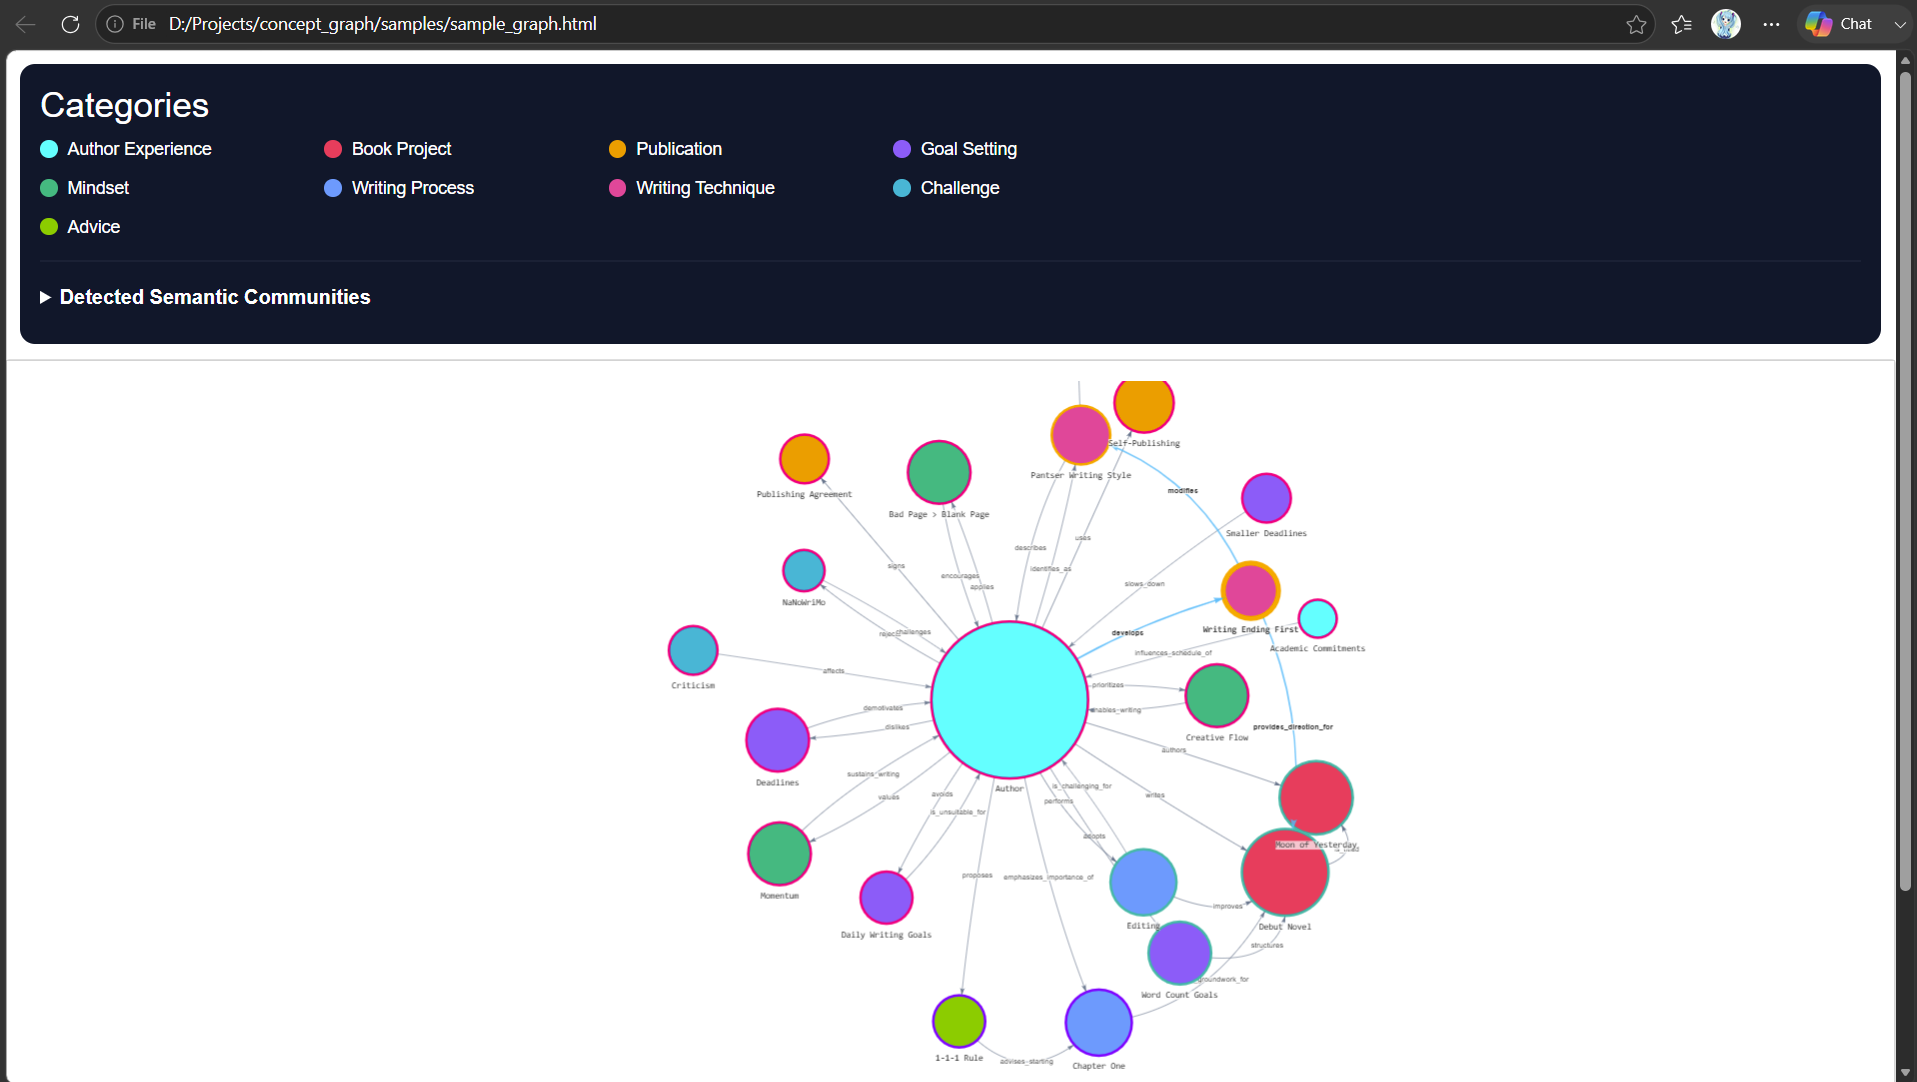
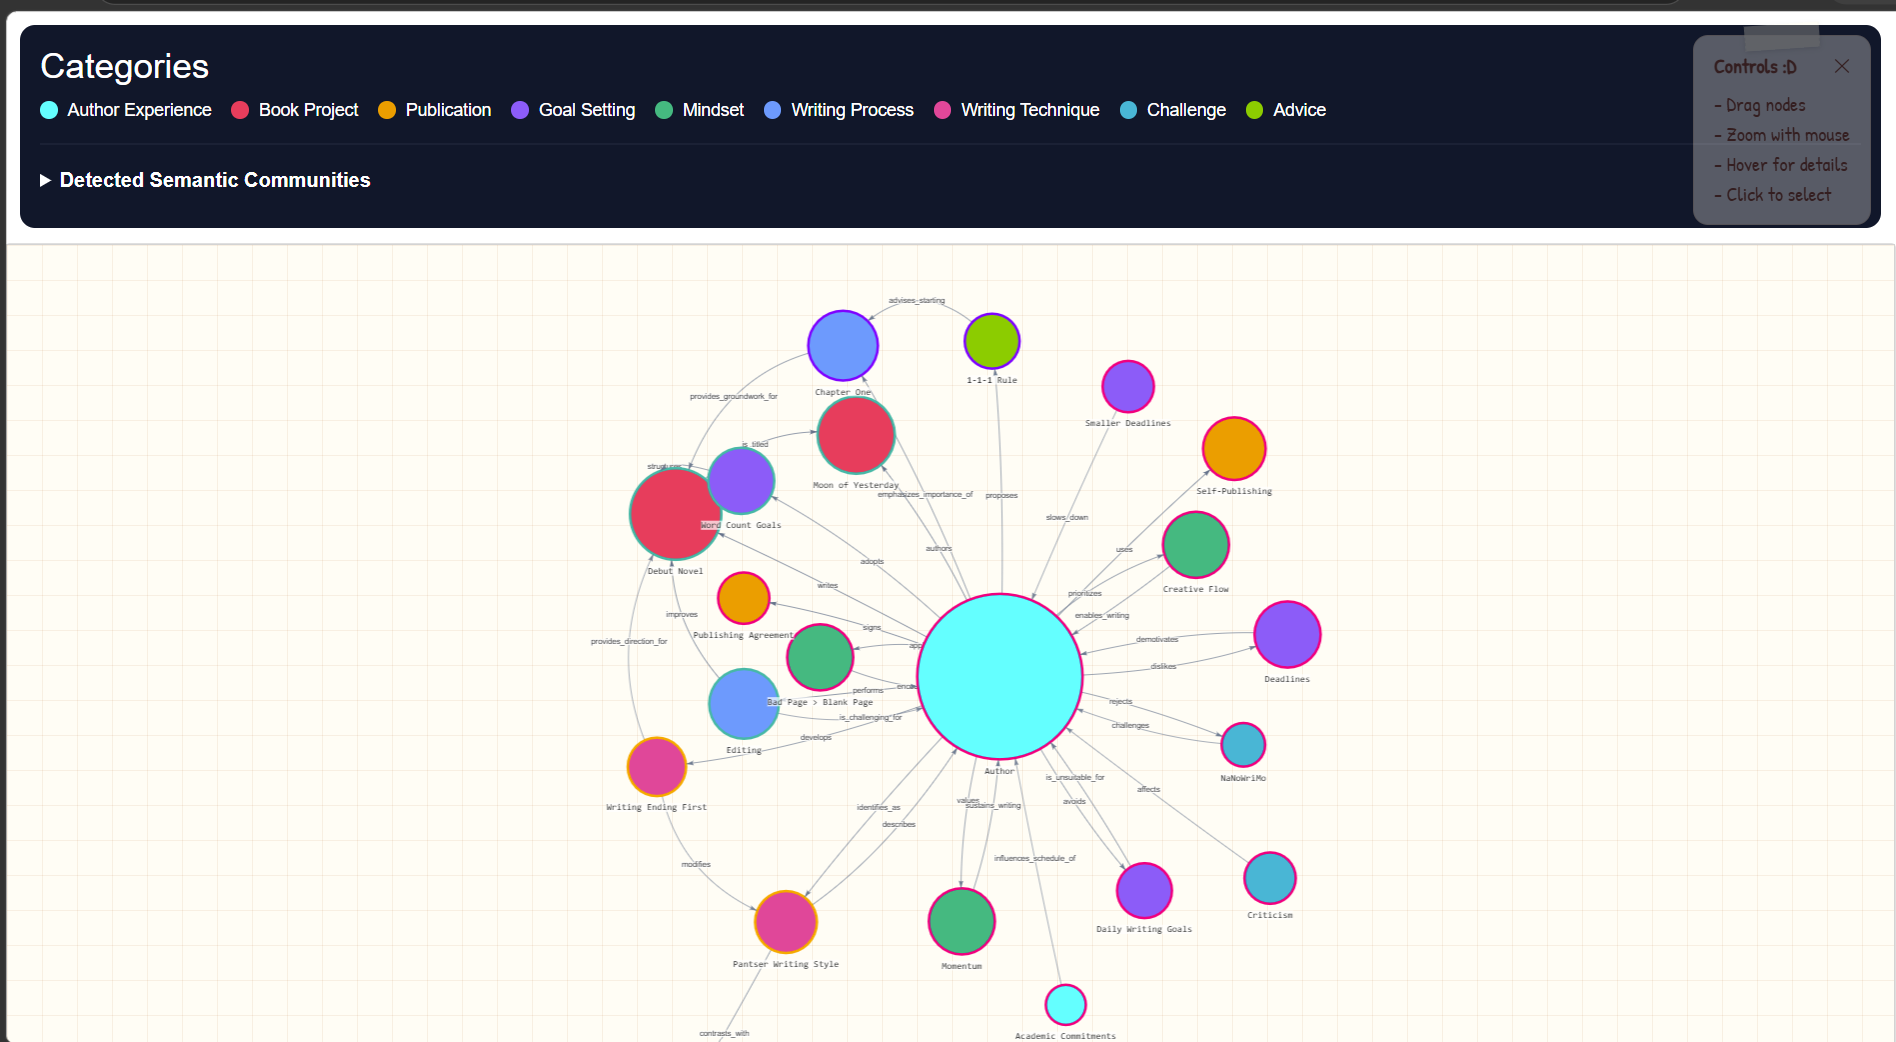
v2 and a smoother UI experience

Changed region(s): [[0.0, 0.0, 1.0, 1.0], [0.3734, 0.9827, 0.4045, 1.0]]

diff --git a/main.py b/main.py
@@ -72,7 +72,7 @@ except FileNotFoundError:
         f.write(sample_text)
     article = sample_text
 
-MAX_INPUT_CHARS = 17000 # Adjust as required
+MAX_INPUT_CHARS = 15000 # Adjust as required
 
 if len(article) > MAX_INPUT_CHARS:
     print(f"Input text exceeds {MAX_INPUT_CHARS} characters.")
@@ -146,7 +146,17 @@ if validated_map is None:
         print("\n=== RAW EXTRACTED LLM RESPONSE IN CACHE FILE===\n")
         # To Log response body, uncomment
         # print(response.text)
-        
+
+        if not response.text or not response.text.strip():
+            raise RuntimeError(
+                "Gemini returned an empty response.\n"
+                "Possible causes:\n"
+                "- Safety filtering\n"
+                "- API quota exceeded\n"
+                "- Network issue\n"
+                "- Service interruption"
+            )
+
         raw_data = json.loads(response.text)
         with open(CACHE_FILE, "w", encoding="utf-8") as cache_file:
             json.dump(raw_data, cache_file, indent=2)
@@ -457,13 +467,7 @@ legend_html = """
     margin:12px;
 '>
     <h3 style='margin-top:0;'>Categories</h3>
-
-    <div style='
-        display:grid;
-        grid-template-columns: repeat(auto-fill, minmax(180px, 1fr));
-        gap:10px;
-        max-width:900px;
-    '>
+    <div style='display:flex;flex-wrap:wrap;gap:16px;'>
 """
 
 for category, color in CATEGORY_COLORS.items():
@@ -543,12 +547,103 @@ legend_html += """
 </div>
 """
 
+controls_html = """
+<div id='controls-box' style='
+    position:fixed;
+    top:20px;
+    right:20px;
+    z-index:9999;
+    background:rgba(255,253,245,0.85);
+    color:#7c2d12;
+    border:1px solid rgba(180,83,9,0.2);
+    #color:white;
+    padding:12px 16px;
+    border-radius:12px;
+'>
+<div class="tape"></div>
+    <div style='display:flex;justify-content:space-between;gap:12px;'>
+
+        <strong>Controls :D</strong>
+
+        <span
+            onclick="document.getElementById('controls-box').remove()"
+            style='cursor:pointer;'
+        >
+            ✕
+        </span>
+
+    </div>
+
+    <div style='margin-top:6px;'>- Drag nodes</div>
+    <div>- Zoom with mouse</div>
+    <div>- Hover for details</div>
+    <div>- Click to select</div>
+</div>
+"""
+
 with open(OUTPUT_FILE, "r", encoding="utf-8") as f:
     html = f.read()
 
 html = html.replace(
+    "</head>",
+    """
+    <link href="https://fonts.googleapis.com/css2?family=Patrick+Hand&display=swap" rel="stylesheet">
+
+    <style>
+
+    .tape {
+    position: absolute;
+    top: -10px;
+    left: 50%;
+    transform: translateX(-50%) rotate(-4deg);
+
+    width: 60px;
+    height: 20px;
+
+    background: rgba(255,248,220,0.7);
+
+    border-left: 1px dashed rgba(0,0,0,0.08);
+    border-right: 1px dashed rgba(0,0,0,0.08);
+
+    box-shadow: 0 1px 4px rgba(0,0,0,0.15);
+}
+        #controls-box {
+            font-family: 'Patrick Hand', cursive;
+            font-size: 16px;
+            opacity: 0.35;
+            transition: opacity 0.2s ease;
+        }
+
+        #controls-box:hover {
+            opacity: 1;
+        }
+
+        #mynetwork {
+            background-color: #fffdf5;
+
+            background-image:
+                linear-gradient(
+                    rgba(180,83,9,0.08) 1px,
+                    transparent 1px
+                ),
+                linear-gradient(
+                    90deg,
+                    rgba(180,83,9,0.08) 1px,
+                    transparent 1px
+                );
+
+            background-size: 28px 28px;
+        }
+    </style>
+
+    </head>
+    """,
+    1
+)
+
+html = html.replace(
     "<body>",
-    f"<body>\n{legend_html}\n", 1
+    f"<body>\n{controls_html}\n{legend_html}\n", 1
 )
 
 with open(OUTPUT_FILE, "w", encoding="utf-8") as f:

diff --git a/README.md b/README.md
@@ -1,8 +1,7 @@
 # Semantic Concept Graph Generator
 
-
-
 Ever tried reading a massive block of text and wished you could just *see* how all the ideas, themes, and characters smash into each other?
+(Literally smash into each other.)
 
 This tool takes raw, unstructured text and uses **Gemini 2.5 Flash** to extract semantic concepts (meaningful entities, themes, emotions, concepts, and relationships from natural language text), validates them with **Pydantic**, crunches the mathematical clusters using **NetworkX**, and spins up an interactive network graph courtesy of **PyVis** (that you can play with thanks to the physics setting!).
 
@@ -18,6 +17,7 @@ This tool takes raw, unstructured text and uses **Gemini 2.5 Flash** to extract 
 </p>
 
 ---
+
 ## Quick TL;DR - What It Does
 
 1. Reads raw text
@@ -27,12 +27,36 @@ This tool takes raw, unstructured text and uses **Gemini 2.5 Flash** to extract 
 5. Generates an interactive visualization
 
 Input:
-Article, novel chapter, research paper, design document, etc. (Save as sample.txt)
+Article, chapters, research paper, design document, etc. (Save as `sample.txt` in main directory, adjust `MAX_INPUT_CHARS` in `main.py` as per your input - just be aware of the number of tokens you are using!)
 
 Output:
 Interactive semantic concept graph + static Matplotlib rendering of the same graph
 
 ---
+
+## Small Preview + Small Talk
+![Sample Graph Screenshot](samples/sample_graph_screenshot.png)
+You can zoom, drag nodes around, and explore the graph!
+
+I tried hard to make it very plain, so that it's not distracting, but also visually a bit interesting so that it's not boring!
+I thought to remove the hovering text since it was getting long (and perhaps a bit distracting?) and have it in a separate panel, but doing so was once again feeding information which was losing the main goal of this project: to the point summarization.
+
+This little note on the top as my courtesy!!
+![Little Note Upon Hovering](samples/little_note.png)
+
+The static graph struggles with many relationships and connections, which you can see here, but it is still very helpful if you just want to get to the point! Sometimes the interactive graph may feel like it gives too much information.
+
+![Sample Static Graph](samples/sample_static_blueprint.png)
+
+Ultimately, what matters is the condensation of information, one line summaries with their sources in the tooltip (the box that comes when you hover over a node or an edge), and the direction and connection between different pieces of information.
+
+Also, the code filters out isolated nodes (points with no connection at all) - hopefully, no fun part (or serious part) gets skipped!
+
+You are welcome to fine-tune this based on your requirements (keep isolated nodes, increase or decrease minimum required confidence for condensation or expansion of the graph, change the AI architecture from Google's Gemini to OpenAI's ChatGPT, tweak the prompt, among others).
+
+P.S. I have added guardrails & fallbacks wherever possible. Check terminal for logs. Whatever you can't find on the screen is probably printed in here!
+
+![Example Terminal Log](samples/terminal_log.png)
 
 ## Features
 
@@ -46,7 +70,7 @@ Uses Gemini 2.5 Flash to identify nodes like:
 * Technologies
 * Emotions
 * Settings
-* and so on...
+* and so on!
 
 Each extracted node includes:
 
@@ -69,8 +93,6 @@ NetworkX's modularity-based clustering algorithm groups related concepts into se
 
 Community membership is visualized through node border colors.
 
----
-
 ### Interactive Visualization
 
 Built using PyVis.
@@ -84,13 +106,6 @@ You can look at my sample outputs for this [article](https://medium.com/@prayash
 * `sample_graph.html`
 * `sample_static_blueprint.png`
 
-### Small Preview
-![Sample Graph Screenshot](samples/sample_graph_screenshot.png)
-You can zoom, drag nodes around, and explore the graph!
-
-The static graph struggles with many relationships and connections, which you can see here, but it is still very helpful if you just want to get to the point! Sometimes the interactive graph may feel like it gives too much information.
-
-![Sample Static Graph](samples/sample_static_blueprint.png)
 
 ---
 
@@ -134,6 +149,7 @@ semantic-concept-graph/
 │   └── *.json
 │
 ├── samples/                # Repository documentation assets
+│   ├── little_note.png
 │   ├── sample_graph_screenshot.png
 │   ├── sample_graph.html
 │   └── sample_static_blueprint.png
@@ -202,7 +218,7 @@ GEMINI_API_KEY=your_api_key_here
 
 ## Usage
 
-Place the text you want to analyze inside sample.txt.
+Place the text you want to analyze inside `sample.txt`.
 
 Then run:
 
@@ -227,10 +243,7 @@ To reduce API usage and speed up experimentation, extraction results are cached 
 
 Cache files are stored in cache/
 
-The cache key is generated using the MD5 hash of:
-
-* Input text
-* Prompt configuration
+The cache key is generated using the MD5 hash of **input text + prompt configuration**.
 
 This ensures that changing extraction instructions automatically invalidates old cache results.
 
@@ -284,6 +297,7 @@ Larger nodes generally represent more influential concepts.
 * Graph search and filtering
 * Custom clustering strategies
 * Perhaps a "talk to your graph" type bot?
+* And maybe a UI update
 
 ---
 